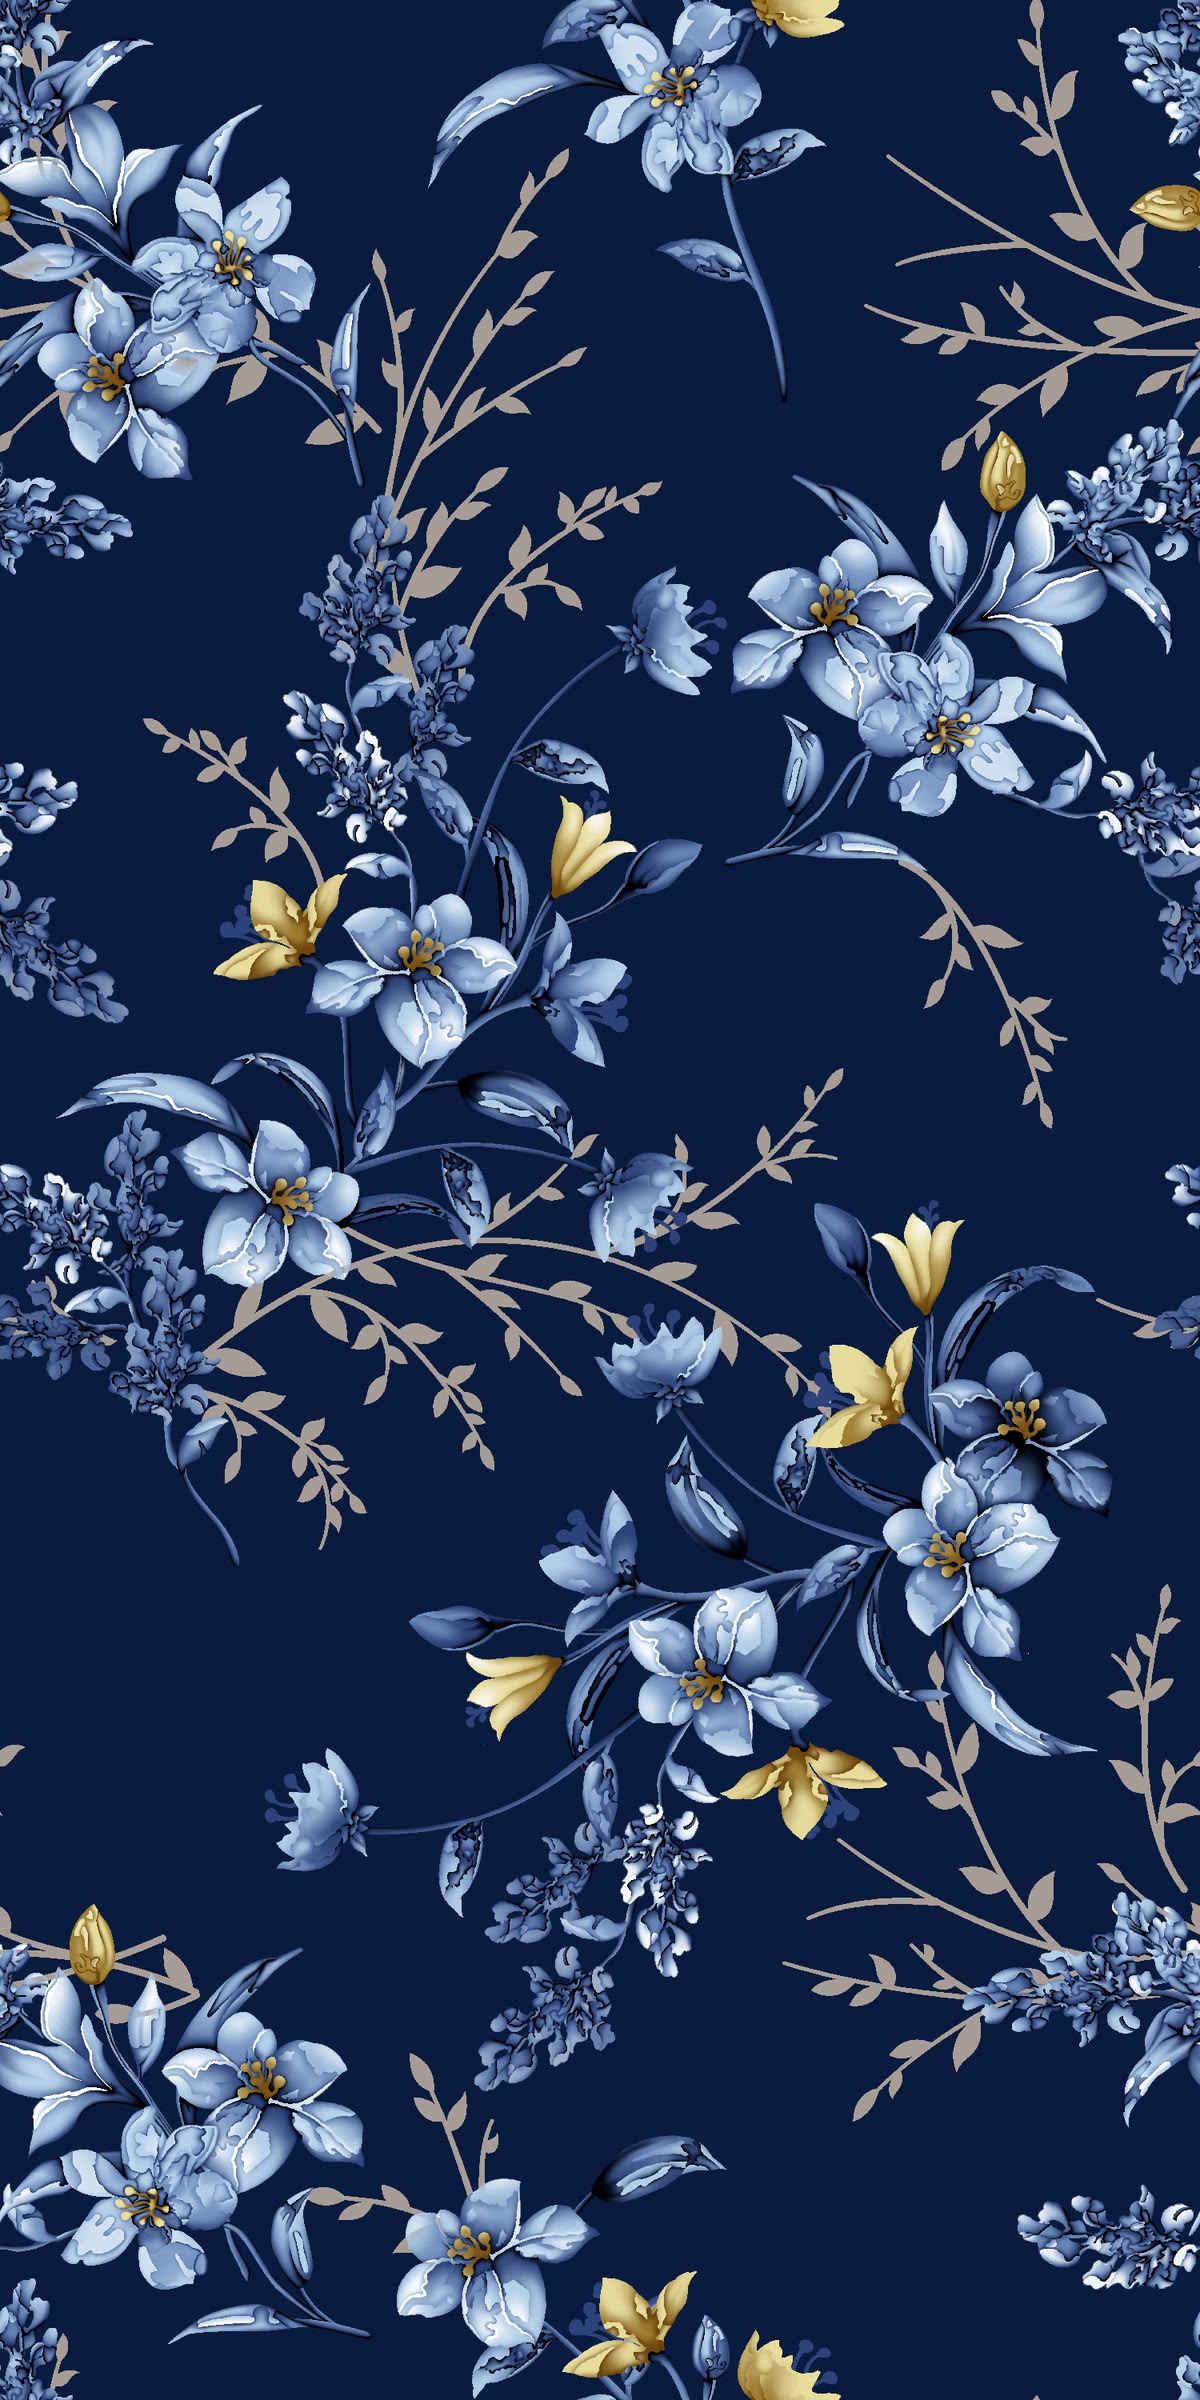
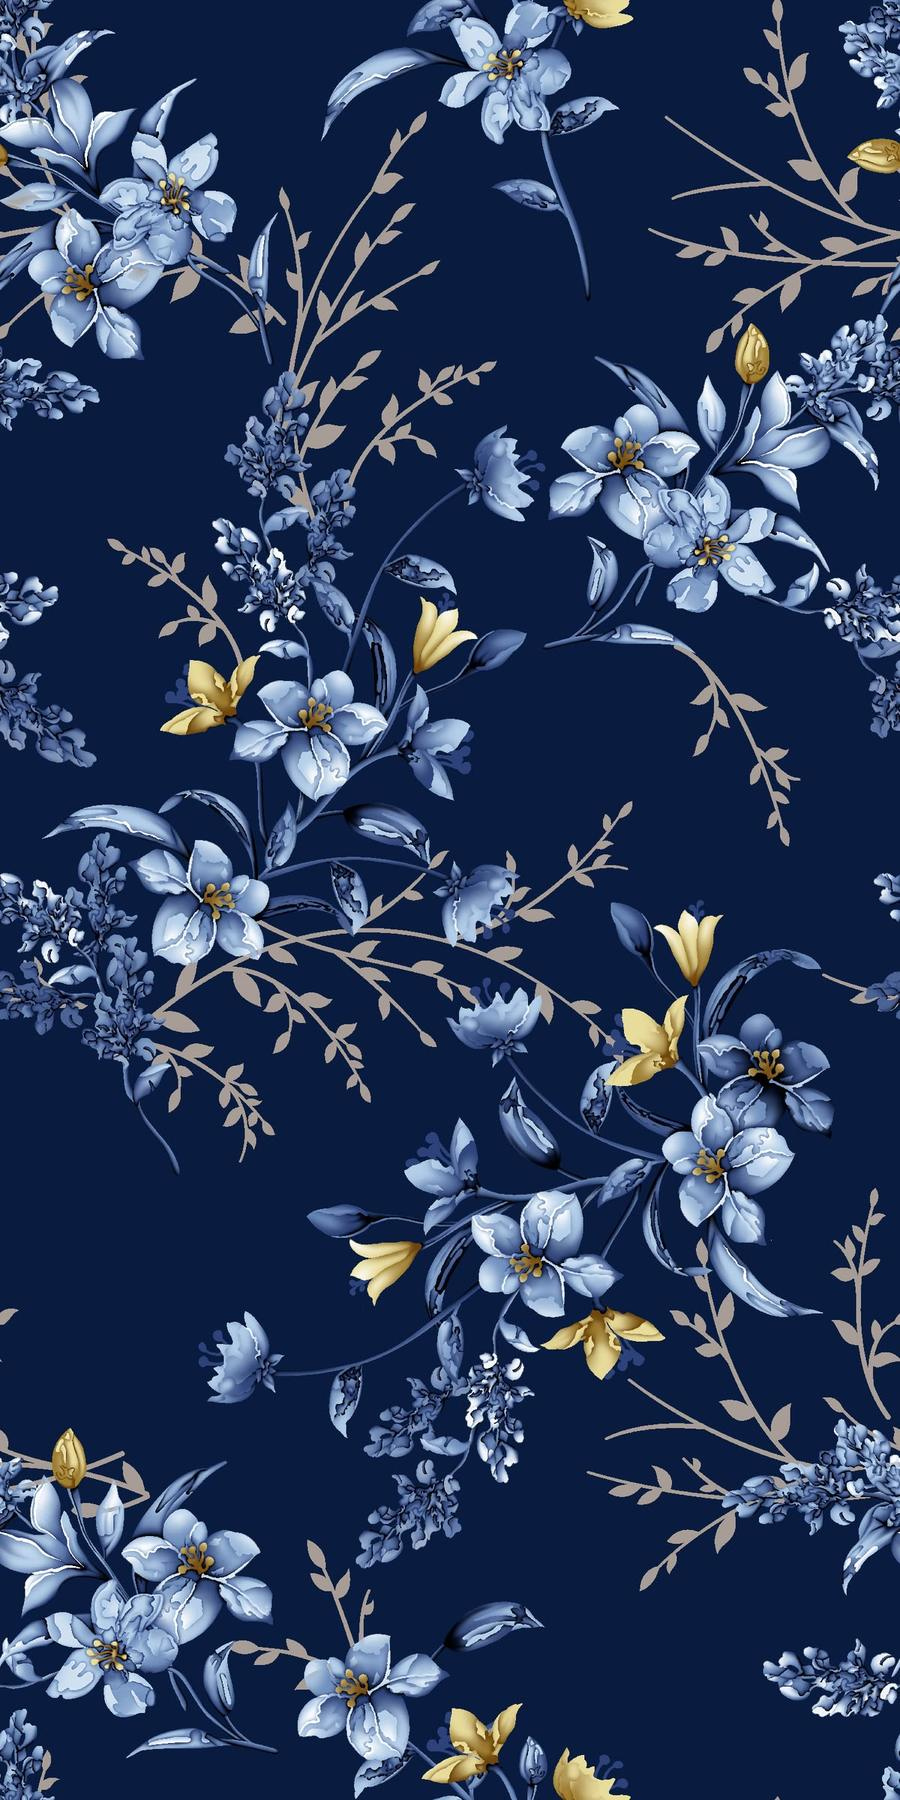
chore: katalog rasmlari joyida siqildi — papka 6.9 MB -> 3.26 MB (-53%)
Nuqson tezlikda edi: backend serverda 4-7 ms (juda tez), sekinlik
tarmoq + og'ir rasmlarda — eng kattasi textile-12.png = 4.3 MB.
To'rt fayl qayta siqildi (Pillow 11, maks 900px — PDP retina 2x
uchun yetarli): textile-04 649->337 KB, textile-08 167->107 KB,
textile-11 426->223 KB, textile-12 4277->962 KB (-78%, 256-rang
palitra + dither). Qolgan 8 fayl allaqachon zich — tejamning ~97% i
shu to'rttasida edi. Yo'l/nom o'zgarmadi: nol kod, nol baza.
?v= va CACHE_VERSION ataylab oshirilmadi — js/css/html tegilmagan,
rasmlar PRECACHE'da yo'q (ikkala sw.js da 0 ta textile, grep bilan
o'lchandi), max-age=14400 ni CDN 4 soatda o'zi yangilaydi.
91 test yashil (panel.js 63->64, Test 16 jadvali birga).

diff --git a/loyiha-panel.html b/loyiha-panel.html
@@ -350,6 +350,11 @@
     <div style="font-size:0.68rem; font-weight:700; text-transform:uppercase; letter-spacing:0.8px; color:#9C7B5A; margin-bottom:0.7rem;">So'nggi faoliyat</div>
     <div id="faoliyat-list">
       <div class="faoliyat-item">
+        <span class="faoliyat-sana">2026-09-04</span>
+        <span class="faoliyat-text"><b>KATALOG RASMLARI JOYIDA SIQILDI — PAPKA 6.9 MB → 3.26 MB (−53%), KOD VA BAZAGA TEGILMADI.</b> Ish o'lchovdan boshlandi (jonli <code>curl</code> + serverda ssh): backend <b>4–7 ms</b> — juda tez, bot sog'lom (webhook ishlovdan oldin 200, navbat 0, tg API 110–300 ms) — ya'ni sekinlik TARMOQ + OG'IR RASMLARDA edi, botga tegilmadi. Eng katta og'irlik <code>textile-12.png</code> = <b>4.3 MB</b>. To'rt fayl qayta siqildi (<code>telegram-app/assets/products/</code>): <code>textile-04.jpg</code> 649→<b>337 KB</b>, <code>textile-08.jpg</code> 167→<b>107 KB</b>, <code>textile-11.jpg</code> 426→<b>223 KB</b>, <code>textile-12.png</code> 4277→<b>962 KB</b> (−78%, 256-rang palitra + Floyd–Steinberg dither). Usul: Pillow 11 (scratchpad venv, tizimga tegilmadi), maksimal kenglik 900px — PDP retina 2x uchun yetarli (428 CSS px × 2 = 856); JPEG q74 progressive. <code>sips</code> ATAYLAB ishlatilmadi — kodeki faylni KATTALASHTIRDI (251→324 KB). Qolgan 8 fayl ham sinab ko'rildi: allaqachon zich (q~80, ≤850px), qayta siqish 6–9% berib avlod yo'qotishi qo'shardi — jami tejamning <b>~97%</b> i shu 4 faylda edi. ⚠ <b><code>?v=</code> va <code>CACHE_VERSION</code> ATAYLAB OSHIRILMADI va bu TO'G'RI:</b> js/css/html o'zgarmagan; rasmlar versiyalanmaydi (<code>max-age=14400</code> — <b>jonli sarlavhada tasdiqlandi</b>, 4 soatdan keyin CDN o'zi yangilaydi; eski nusxa vizual jihatdan AYNI rasm — zarar yo'q) va PRECACHE ro'yxatida YO'Q (hisobotchi ikkala <code>sw.js</code> da grep bilan o'lchadi: <b>0 ta textile</b>). Yo'l/nom o'zgarmagani uchun bazadagi e'lonlar ham, <code>app.js</code> zaxira massivi ham tegilmadi — kengaytma almashtirilsa (.png→.webp) baza UPDATE kerak bo'lardi; joyida siqish <b>nol kod / nol baza</b> berdi. <b>HISOBOTCHI MUSTAQIL O'LCHADI:</b> git diff bayt raqamlari va yangi o'lchamlar (900×1430/1600/1800) diskdan tasdiqlandi; <b>91 test yashil</b> (o'zi yugurtirdi; birinchi sanoq 92 chiqdi — <code>grep -c "✅"</code> yakuniy «Hammasi PASS» qatorini ham qo'shgan, 2026-09-02 dagi AYNI tuzoq takrorlandi va AYNI usulda ushlandi: <code>✅ Test</code> satrlari bo'yicha qayta sanaldi); siqilgan <code>textile-12.png</code> ko'z bilan ochib ko'rildi — gul naqshi toza, dither artefakti yo'q. <b>Tekshirilmadi:</b> «bazadagi 11 e'lon» soni (baza serverda) — lekin yo'llar o'zgarmagani uchun bu songa hech narsa bog'liq emas. <b>DEPLOY: faqat STATIK</b> (CI, <code>telegram-app/*</code> alohida qadamda allaqachon bor) — server kodi, restart, migratsiya YO'Q. Kesh: <code>panel.js</code> 63→<b>64</b> (Test 16 jadvali birga). <b>PUSH YO'Q.</b> Hujjat: docs/sprintlar/sprint-5.md</span>
+        <span class="faoliyat-sprint">Sprint 5</span>
+      </div>
+      <div class="faoliyat-item">
         <span class="faoliyat-sana">2026-09-02</span>
         <span class="faoliyat-text"><b>APP STORE YO'LI BOSHLANDI — <code>privacy.html</code>: MAXFIYLIK SIYOSATI IKKI TILDA</b> (founder App Store'ga ilova chiqarishni boshladi; Apple Developer enrollment Privacy Policy URL talab qiladi). Yangi ildiz sahifasi <code>privacy.html</code> — o'zbekcha + inglizcha (Apple ko'rikchisi o'qiy olishi uchun), dizayn ildizdagi <code>style.css?v=65</code> tokenlaridan (uchala HTML — <code>index</code>, <code>admin</code>, <code>privacy</code> — BIR XIL versiyada, hisobotchi grep bilan o'lchadi), hujjat-maketi sahifaning o'z inline <code>&lt;style&gt;</code> ida. <b>Matn faqat REAL amaliyotni aytadi</b> («jimgina yolg'on» oilasi qoidalari bilan bitta yo'nalish): kimlik faqat Telegram imzolagan kanallardan, telefon faqat botda o'zi ulashsa, trafik statistikasida xom IP YO'Q va belgi kunlik (db/028 qarori so'zma-so'z), karta ma'lumoti va parol UMUMAN yig'ilmaydi, uchinchi tomonlar (Telegram, Cloudflare, Yandex Maps, Google Gemini) — hammasi kodda haqiqatan bor. Operator: «LOLAMARKET GROUP» MCHJ, STIR 313296186; bog'lanish <code>info@lolamarket.uz</code> (bugun Cloudflare Email Routing bilan ochilgan). <b><code>deploy.yml</code> ikki joyda:</b> <code>source</code> ro'yxatiga <code>privacy.html</code> (ma'lum tuzoq — ro'yxatga qo'shilmagan ildiz fayli serverga UMUMAN chiqmaydi, nginx fallback esa 200 bilan yashiradi) va <code>check_html /privacy.html 'privacy-lm'</code> qorovuli (sahifadagi unikal <code>id="privacy-lm"</code> belgisi bo'yicha). Yon kontekst (kod emas): Apple developer profili to'ldirildi, D-U-N-S so'rovi yuborildi (D&amp;B Tracking #10843400, Case #10903271 — javob kutilmoqda). <b>HISOBOTCHI MUSTAQIL O'LCHADI:</b> <b>91</b> test yashil (<code>✅ Test</code> satrlari sanaldi — Test 16 yangi HTML'ni avtomatik qamrab versiya mosligini tasdiqladi); sahifa tayangan ikkala resurs (<code>style.css</code>, <code>lola-mark.png</code>) diskda bor. <b>Tekshirilmadi:</b> brauzerda chizilish da'vosi va tashqi qadamlar (Apple/D-U-N-S/pochta). <b>Halol chegara:</b> sahifa production'da HALI YO'Q — CI push'dan keyin chiqaradi; App Store formasiga havola berishdan oldin jonli URL ko'z bilan ochilsin. Kesh: sayt JS/CSS TEGILMAGAN (<code>?v=</code> oshirish kerak emas), hisobot ishi <code>panel.js</code> ga tegdi — 62→<b>63</b> (Test 16 jadvali birga). <b>DEPLOY: faqat STATIK</b> (CI) — server kodi, restart, migratsiya YO'Q. <b>PUSH YO'Q.</b> Hujjat: docs/sprintlar/sprint-5.md</span>
         <span class="faoliyat-sprint">Sprint 5</span>
@@ -1257,6 +1262,6 @@
 
 </div>
 
-<script src="panel.js?v=63" defer></script>
+<script src="panel.js?v=64" defer></script>
 </body>
 </html>

diff --git a/panel.js b/panel.js
@@ -10,7 +10,7 @@
     { num: 2, nom: "Ma'lumotlar bazasi / Backend", dars: "Dars 9",  holat: "tugadi", sana: "2026-07-23" },
     { num: 3, nom: "Foydalanuvchilar + rollar", dars: "Dars 10", holat: "tugadi", sana: "2026-08-16" },
     { num: 4, nom: "Asosiy funksiya",           dars: "Dars 11", holat: "jarayonda",  sana: "2026-09-02" },
-    { num: 5, nom: "Mobil / PWA",               dars: "Dars 12", holat: "jarayonda",  sana: "2026-09-02" },
+    { num: 5, nom: "Mobil / PWA",               dars: "Dars 12", holat: "jarayonda",  sana: "2026-09-04" },
     { num: 6, nom: "Integratsiyalar",           dars: "Dars 13", holat: "jarayonda",  sana: "2026-07-22" },
     { num: 7, nom: "Admin panel",               dars: "Dars 14", holat: "tugadi",  sana: "2026-08-31" },
     { num: 8, nom: "Sifat tekshiruvi",          dars: "Dars 15", holat: "jarayonda", sana: "2026-08-25" },
@@ -36,7 +36,7 @@
   barEl.style.width = foiz + "%";
   percentEl.textContent = foiz + "%";
   countEl.textContent = tugaganlar + " / " + sprintlar.length + " sprint";
-  updatedEl.textContent = "Yangilanish: 2026-09-02 (App Store yo'li boshlandi: yangi privacy.html — maxfiylik siyosati ikki tilda (uz+en), Apple Privacy Policy URL talabi uchun; matn faqat real amaliyotni aytadi (Telegram kimlik, kunlik hash, karta yig'ilmaydi). deploy.yml: source ro'yxatiga qo'shildi + check_html qorovuli. 91 test yashil, uchala HTML style.css?v=65 da mos. Deploy: faqat STATIK. PUSH YO'Q.)";
+  updatedEl.textContent = "Yangilanish: 2026-09-04 (Katalog rasmlari joyida siqildi: papka 6.9→3.26 MB (−53%), eng og'iri textile-12.png 4.3 MB→962 KB; kod, baza va ?v= tegilmadi — yo'l/nom o'zgarmagan, rasmlar PRECACHE'da yo'q, max-age=14400 CDN o'zi yangilaydi. Avval o'lchandi: backend 4–7 ms, bot sog'lom — sekinlik og'ir rasmlarda edi. 91 test yashil. Deploy: faqat STATIK. PUSH YO'Q.)";
 
 
   sprintlar.forEach(s => {

diff --git a/server/test.js b/server/test.js
@@ -1404,7 +1404,7 @@ function testAssetVersionsAreFresh() {
     // YUQORIGA suriladi: teng raqam qaytib kelgan foydalanuvchida keshdagi
     // BIR TOMONLAMA faylni qoldirardi — sevimlilar yoki chiqish tuzatishining
     // faqat bittasi bo'lgan `app.js`.
-    'panel.js': { v: 63, hash: 'e87686981431' },
+    'panel.js': { v: 64, hash: '5afc8ac90703' },
     // 2026-08-23: «Bot userlar» sahifasi, mahsulot jadvali, 7/30/90 oraliq.
     'admin/admin.css': { v: 22, hash: '2b63d25b1098' },
     'admin/admin.js': { v: 34, hash: '56844af79b82' },

diff --git a/docs/sprintlar/sprint-5.md b/docs/sprintlar/sprint-5.md
@@ -24,6 +24,33 @@ Platformani mobil qurilmalarda ham qulay ishlashini ta'minlash. Ilovani telefong
 
 ## Qilingan ishlar
 
+- [2026-09-04] **Katalog rasmlari joyida optimallashtirildi — papka 6.9 MB →
+  3.26 MB (−53%), kod va bazaga TEGILMADI.** Avval tezlik o'lchandi (jonli
+  `curl` + serverda ssh): backend 4–7 ms — juda tez, bot sog'lom (webhook
+  ishlovdan oldin 200, navbat 0), ya'ni sekinlik tarmoq + og'ir rasmlarda edi.
+  Eng katta og'irlik `textile-12.png` = 4.3 MB. To'rt fayl qayta siqildi
+  (`telegram-app/assets/products/`): `textile-04.jpg` 649→337 KB,
+  `textile-08.jpg` 167→107 KB, `textile-11.jpg` 426→223 KB, `textile-12.png`
+  4277→962 KB (−78%, 256-rang palitra + Floyd–Steinberg dither). Usul:
+  Pillow 11 (scratchpad venv, tizimga tegilmadi), maksimal kenglik 900px —
+  PDP retina 2x uchun yetarli (428px CSS × 2 = 856); JPEG q74 progressive.
+  `sips` ATAYLAB ishlatilmadi — uning kodeki faylni KATTALASHTIRDI
+  (251→324 KB). Qolgan 8 fayl ham sinab ko'rildi: allaqachon zich (q~80,
+  ≤850px), qayta siqish 6–9% berib avlod yo'qotishi qo'shardi — jami
+  tejamning ~97% i shu 4 faylda edi, shuning uchun ular tegilmadi.
+  ⚠ **`?v=` va `CACHE_VERSION` ATAYLAB oshirilmadi va bu TO'G'RI:** hech
+  qanday js/css/html o'zgarmagan; rasmlar versiyalanmaydi (`max-age=14400` —
+  jonli sarlavhada tasdiqlandi, 4 soatdan keyin CDN o'zi yangilaydi, eski
+  nusxa vizual jihatdan AYNI rasm — zarar yo'q) va PRECACHE ro'yxatida YO'Q
+  (hisobotchi ikkala `sw.js` da grep bilan tekshirdi: 0 ta textile).
+  Rasm yo'llari/nomlari o'zgarmagani uchun bazadagi e'lonlar ham, `app.js`
+  zaxira massivi ham tegilmadi — kengaytma almashtirilsa (masalan .png→.webp)
+  baza UPDATE kerak bo'lardi, joyida siqish nol kod / nol baza berdi.
+  Sifat ko'z bilan tekshirildi (2 rasm ochib ko'rildi). 91 test yashil
+  (hisobotchi o'zi yugurtirdi — birinchi sanoq 92 chiqqan edi, `grep -c "✅"`
+  yakuniy «Hammasi PASS» qatorini ham qo'shgan; `✅ Test` bo'yicha qayta
+  sanaldi, 2026-09-02 dagi ayni tuzoqning takrori). Botga tegilmadi.
+
 - [2026-09-02] **Maxfiylik siyosati sahifasi (`privacy.html`) — App Store yo'lining
   birinchi kod qadami.** Founder App Store'ga ilova chiqarishni boshladi; Apple
   Developer enrollment jarayoni Privacy Policy URL talab qiladi — endi u
